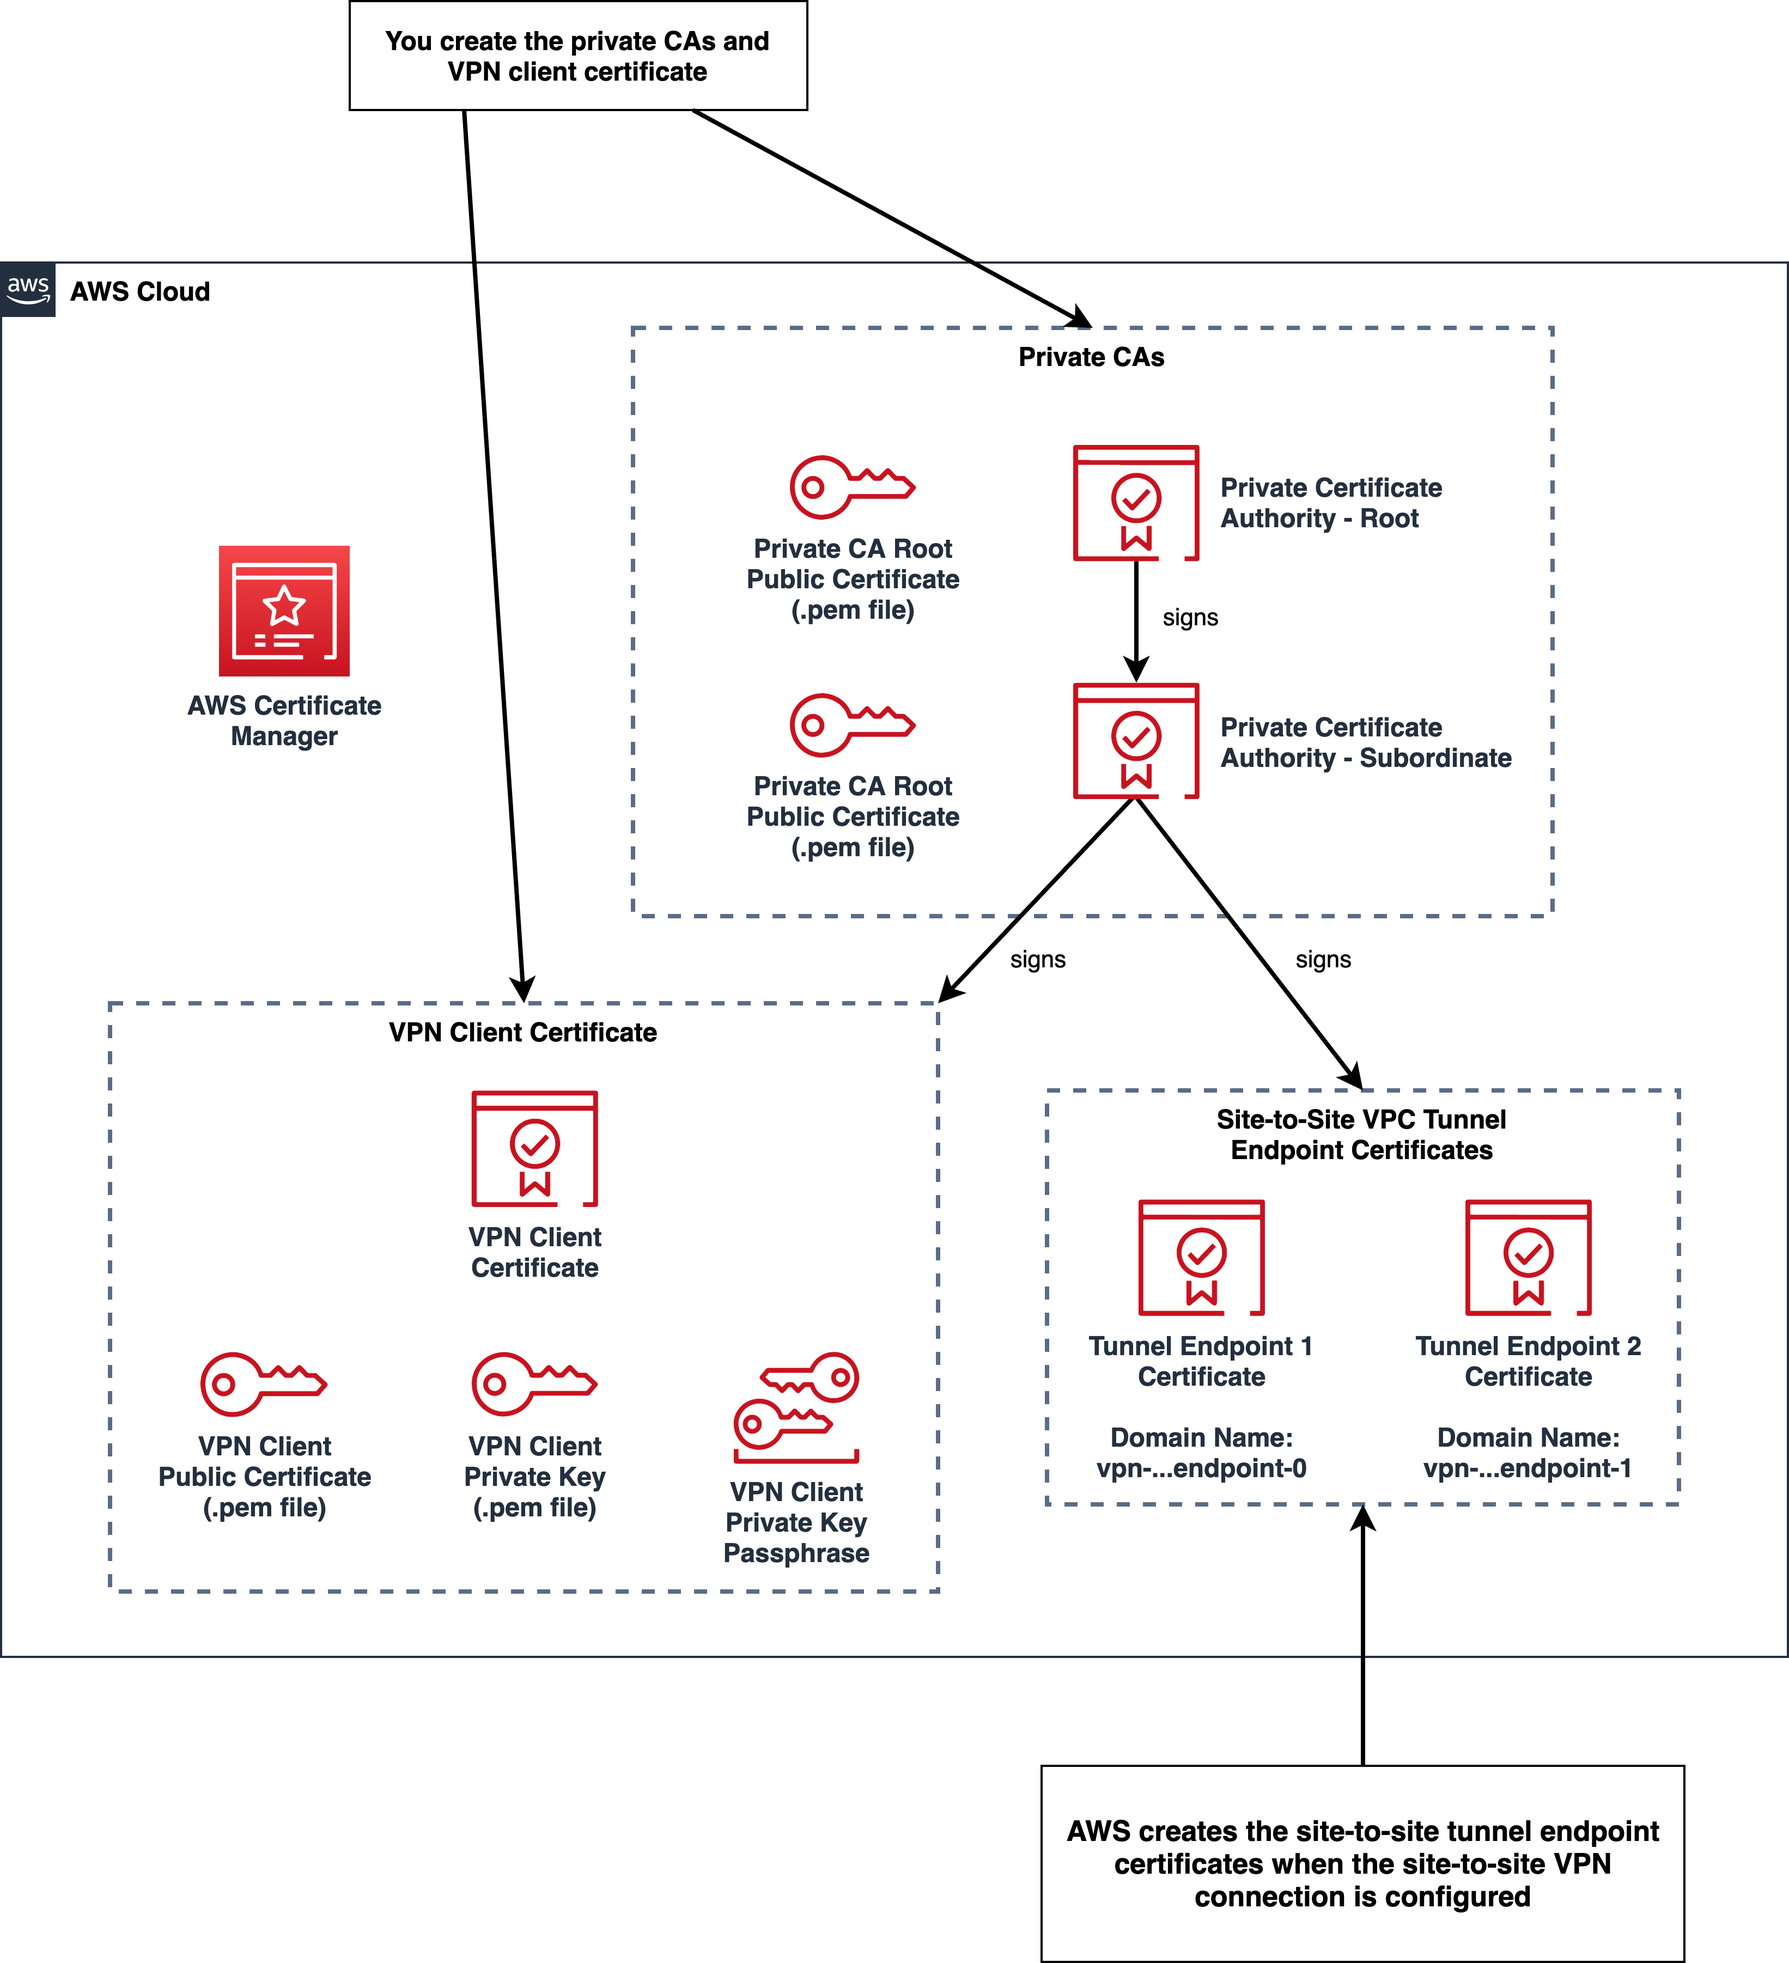
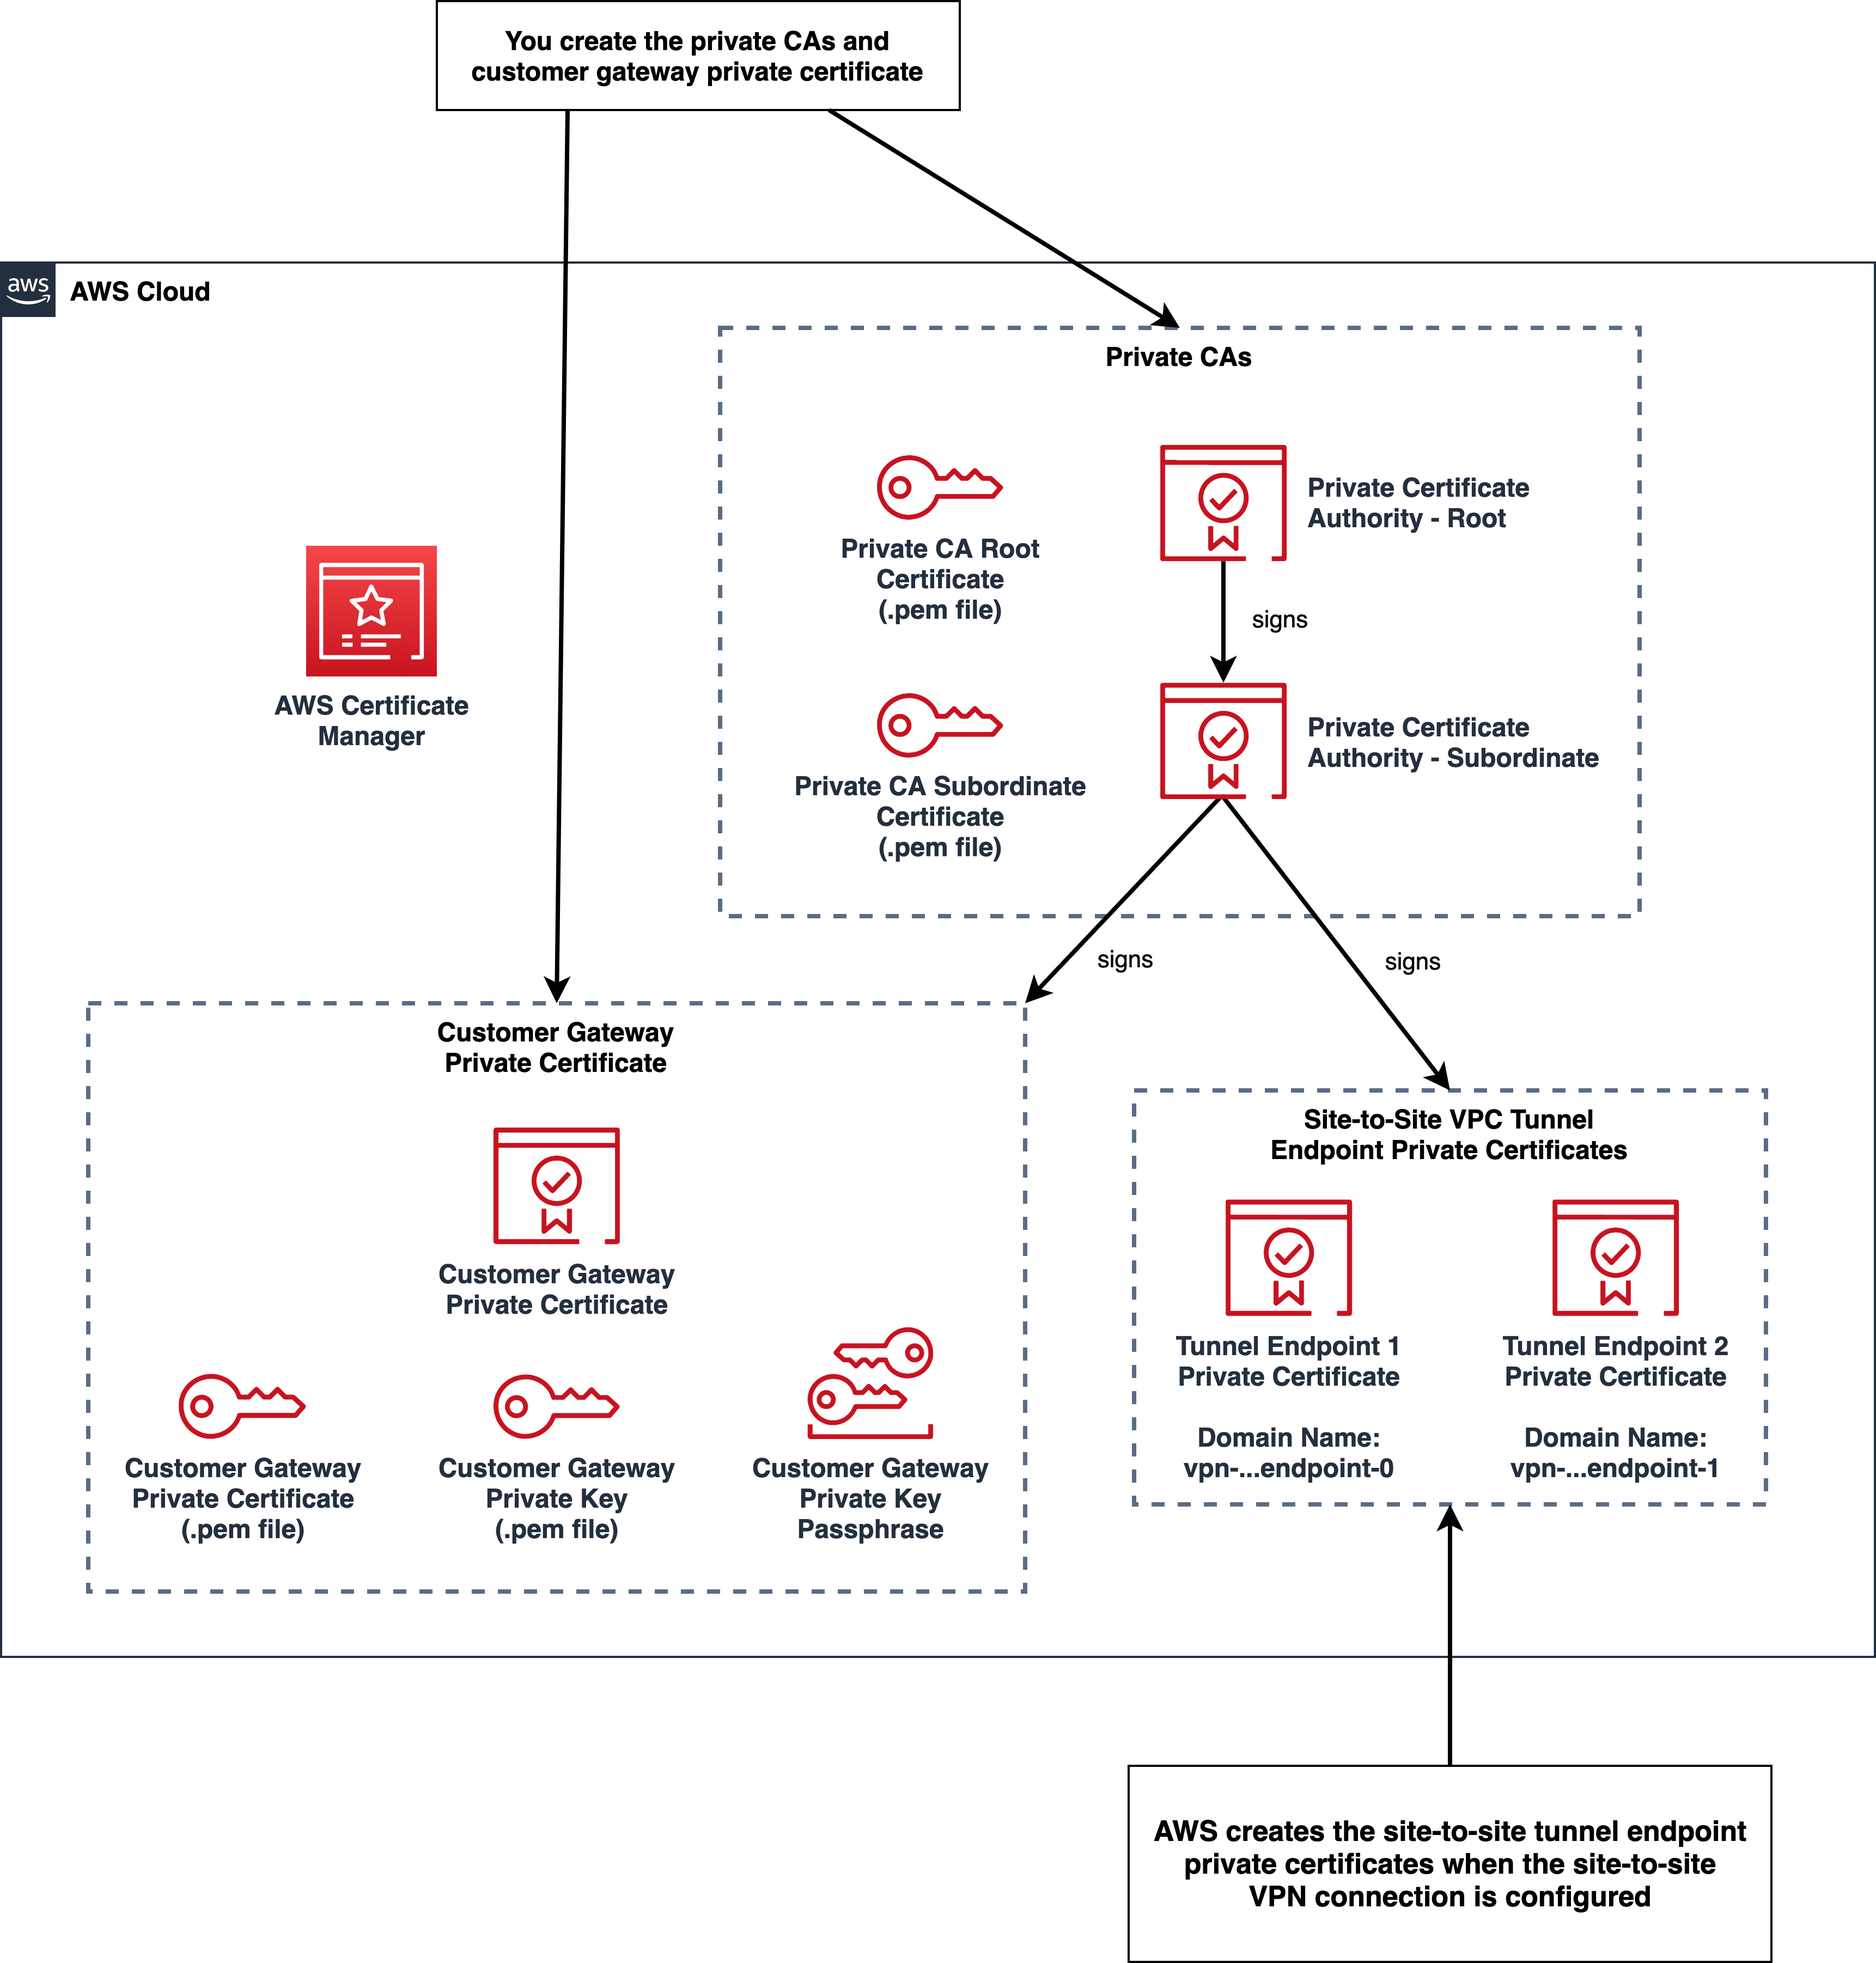
move from vpn client to customer gateway terminology for clietn side cert

diff --git a/README.md b/README.md
@@ -78,46 +78,46 @@ You'll obtain the the pre-shared keys for the two tunnels after you've configure
 
 ### 1b. Certificate-Based Authentication
 
-The following diagram represents the private CAs and the VPN client certificate that you’ll need to create in your AWS environment. It also shows the tunnel-specific certificates that will be automatically generated when you configure the site-to-site VPN connection.
+The following diagram represents the private CAs and the customer gateway private certificate that you’ll need to create in your AWS environment. It also shows the tunnel-specific private certificates that will be automatically generated when you configure the site-to-site VPN connection.
 
 <img src="images/cert-based-authentication-aws-environment.png" alt="Certificate and key data required" width="800"/>
 
-#### Create private certificates authorities (CAs)
-When using certificate-based authentication, you’ll need to use the AWS Certificate Manager private CA feature to create root and subordinate private CAs. The root CA is used to sign the subordinate CA while the subordinate CA is used to sign certificates used to support your site-to-site VPN connections.
+#### Create private certificate authorities (CAs)
+When using certificate-based authentication, you’ll need to use the AWS Certificate Manager private CA feature to create root and subordinate private CAs. The root CA is used to sign the subordinate CA while the subordinate CA is used to sign private certificates used to support your site-to-site VPN connections.
 
-#### Create VPN client certificate
-Once you’ve created the necessary CAs, you’ll use AWS Certificate Manager to create a client certificate to be used to authenticate your on-premises VPN gateway when it initiates the VPN connection.
+#### Create customer gateway private certificate
+Once you’ve created the necessary CAs, you’ll use AWS Certificate Manager to create a private certificate to represent your customer gateway and to be used to authenticate your on-premises VPN gateway when it initiates the VPN connection.
 
-The VPN client certificate is signed by the subordinate CA.
+The customer gateway private certificate is signed by the subordinate CA.
 
-When you configure a customer gateway in your AWS environment, you’ll specify certificate-based authentication and associate your VPN client certificate with the customer gateway. 
+When you configure a customer gateway in your AWS environment, you’ll specify certificate-based authentication and associate your customer gateway private certificate with the customer gateway. 
 
-Later, when your VPN connection and tunnels are established, this association ensures that only a customer gateway that has this VPN client certificate can connect to your AWS environment.
+Later, when your VPN connection and tunnels are established, this association ensures that only a customer gateway that has this customer gateway private certificate can connect to your AWS environment.
 
-#### Export public certificates and VPN client private key
-Once you’ve created the private CAs and the VPN client certificate, you’ll need to save copies of the associated public certificates to your desktop copies. 
+#### Export certificates and customer gateway private key
+Once you’ve created the private CAs and the customer gateway private certificate, you’ll need to save copies of the associated certificates to your desktop copies. 
 
-The public certificates are needed in your simulated on-premises environment so that the strongSwan VPN tool can validate the authenticity of both the VPN client certificate and tunnel-specific certificates that are sent to the client when the VPN connection is established.
+The certificates are needed in your simulated on-premises environment so that the strongSwan VPN tool can validate the authenticity of both the customer gateway private certificate and tunnel-specific private certificates that are sent to the client when the VPN connection is established.
 
-You’ll also need to save a copy of VPN client private key so that the strongSwan VPN tool can decrypt the content of the VPN client private key. 
+You’ll also need to save a copy of customer gateway private key so that the strongSwan VPN tool can decrypt the content of the customer gateway private key. 
 
-Since the VPN client private key is sensitive data, you’ll need to specify a passphrase to be used to encrypt the private key file.
+Since the customer gateway private key is sensitive data, you’ll need to specify a passphrase to be used to encrypt the private key file.
 
-#### Note the domain name of tunnel-specific certificates
+#### Note the domain name of tunnel-specific private certificates
 
-The tunnel-specific certificates are automatically generated by AWS when you either create a transit gateway VPN attachment or create a site-to-site connection.  These certificates contain a domain name that you’ll need to take note of and supply when you deploy the strongSwan VPN gateway stack in your simulated on-premises environment. 
+The tunnel-specific private certificates are automatically generated by AWS when you either create a transit gateway VPN attachment or create a site-to-site connection.  These private certificates contain a domain name that you’ll need to take note of and supply when you deploy the strongSwan VPN gateway stack in your simulated on-premises environment. 
 
-When the tunnels are being established, the srongSwan tool will use the domain names to help validate the tunnel-specific certificates exchanged when the tunnels are established.
+When the tunnels are being established, the srongSwan tool will use the domain names to help validate the tunnel-specific private certificates exchanged when the tunnels are established.
 
 #### Prepare your simulated on-premises environment
 
 Before you can create the CloudFormation stack for your strongSwan VPN gateway in your simulated on-premises environment, you’ll need to perform the following steps.
 
-First, you’ll need to upload the public certificates and VPN client private key to an S3 bucket that is accessible from your simulated on-premises environment.
+First, you’ll need to upload the certificates and customer gateway private key to an S3 bucket that is accessible from your simulated on-premises environment.
 
-Next, you’ll also need to create a secret in AWS Secrets Manager and store the passphrase to decrypt the VPN client private key in that secret. 
+Next, you’ll also need to create a secret in AWS Secrets Manager and store the passphrase to decrypt the customer gateway private key in that secret. 
 
-The following diagram shows the public certificates and the VPN client private key stored in an S3 bucket. The passphrase for the VPN client private key is stored in a secret in AWS secrets manager.
+The following diagram shows the certificates and the customer gateway private key stored in an S3 bucket. The passphrase for the customer gateway private key is stored in a secret in AWS secrets manager.
 
 <img src="images/cert-based-authentication-simulated-on-premises-environment.png" alt="Certificate and key data required" width="800"/>
 
@@ -228,14 +228,14 @@ On both sides of the site-to-site VPN connection, ensure that the appropriate ro
 |**Authentication**| | | |
 |`pAuthType`|Optional|The type of authentication. Either `psk` or `pubkey`. Use `pubkey` for certificate-based authentication.|`psk`|
 |`pCertBucket`|Optional|Name of S3 bucket containing the following certificate files in `.pem` format. Required when using certificate-based authentication.|None|
-|`pClientPublicCert`|Optional|Name of client public certificate file residing in S3. Required when using certificate-based authentication.|None|
-|`pClientPrivateKey`|Optional|Name of client private key file residing in S3. Required when using certificate-based authentication.|None|
-|`pClientPrivateKeyPassphraseSecretName`|Optional|Name of secret in AWS Secrets Manager containing the passphrase for the client private key file residing in S3. Required when using certificate-based authentication.<br><br>AWS Secrets Manager secret must be in the form of `passphrase:<value>` where `passphrase` is the key and `<value>` is the passphrase value.|None|
-|`pRootCaPublicCert`|Optional|Name of root CA certificate file residing in S3. Required when using certificate-based authentication.|None|
-|`pSubordinateCaPublicCert`|Optional|Name of subordinate CA certificate file residing in S3. Required when using certificate-based authentication.|None|
+|`pCgwCert`|Optional|Name of customer gateway certificate file residing in S3. Required when using certificate-based authentication.|None|
+|`pCgwPrivateKey`|Optional|Name of customer gateway private key file residing in S3. Required when using certificate-based authentication.|None|
+|`pCgwPrivateKeyPassphraseSecretName`|Optional|Name of secret in AWS Secrets Manager containing the passphrase for the customer gateway private key file residing in S3. Required when using certificate-based authentication.<br><br>AWS Secrets Manager secret must be in the form of `passphrase:<value>` where `passphrase` is the key and `<value>` is the passphrase value.|None|
+|`pRootCaCert`|Optional|Name of root CA certificate file residing in S3. Required when using certificate-based authentication.|None|
+|`pSubordinateCaCert`|Optional|Name of subordinate CA certificate file residing in S3. Required when using certificate-based authentication.|None|
 |**VPN Tunnel 1**| | | |
 |`pTunnel1Psk`|Optional|See the remote site's configuration for the "IPSec Tunnel #1" section and "Pre-Shared Key" value. Required when using PSK-based authentication.|None|
-|`pTunnel1VgwCertDomainName`|Optional|The domain name of the certificate associated with tunnel 1. Required when using certificate-based authentication.<br><br>You can obtain this value from accessing your site-to-site VPN connection in your AWS environment, selecting the "Tunnel Details" tab, and selecting the "Certificate ARN".|None|
+|`pTunnel1VgwCertDomainName`|Optional|The domain name of the private certificate associated with tunnel 1. Required when using certificate-based authentication.<br><br>You can obtain this value from accessing your site-to-site VPN connection in your AWS environment, selecting the "Tunnel Details" tab, and selecting the "Certificate ARN".|None|
 |`pTunnel1VgwOutsideIpAddress`|Required|See the remote site's configuration for the "IPSec Tunnel #1" section, "Outside IP Addresses" section and "Virtual Private Gateway" value.|None|
 |`pTunnel1CgwInsideCidr`|Required|See the remote site's configuration for the "IPSec Tunnel #1" section, "Inside IP Addresses" section and "Customer Gateway" value.|None|
 |`pTunnel1VgwInsideCidr`|Required|See the remote site's configuration for the "IPSec Tunnel #1" section, "Inside IP Addresses" section and "Virtual Private Gateway" value.|None|
